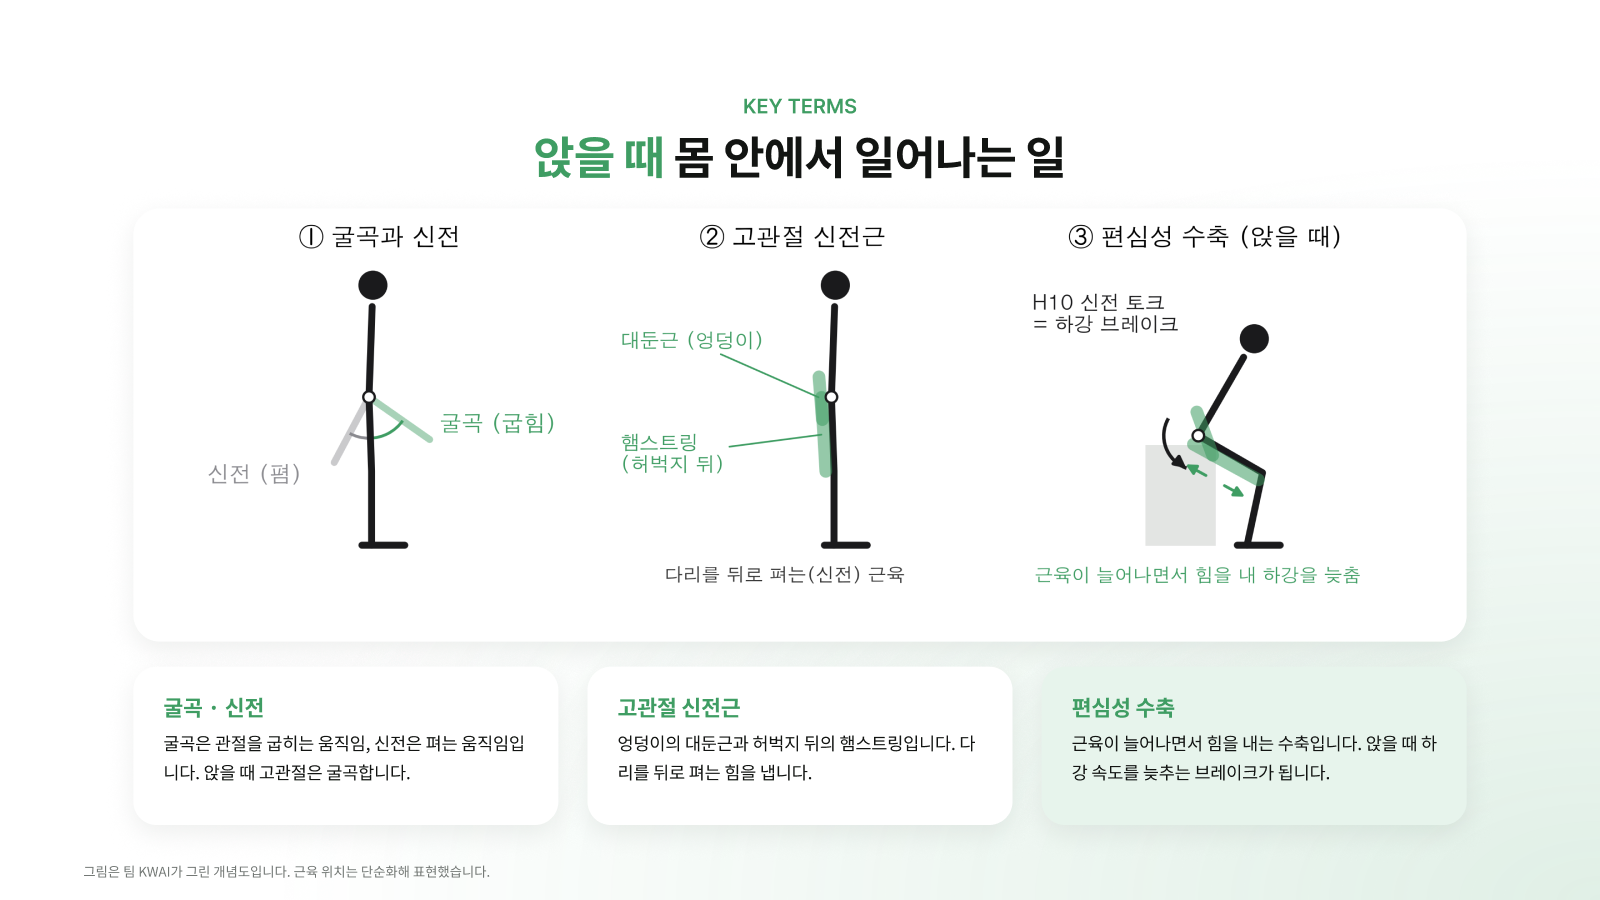
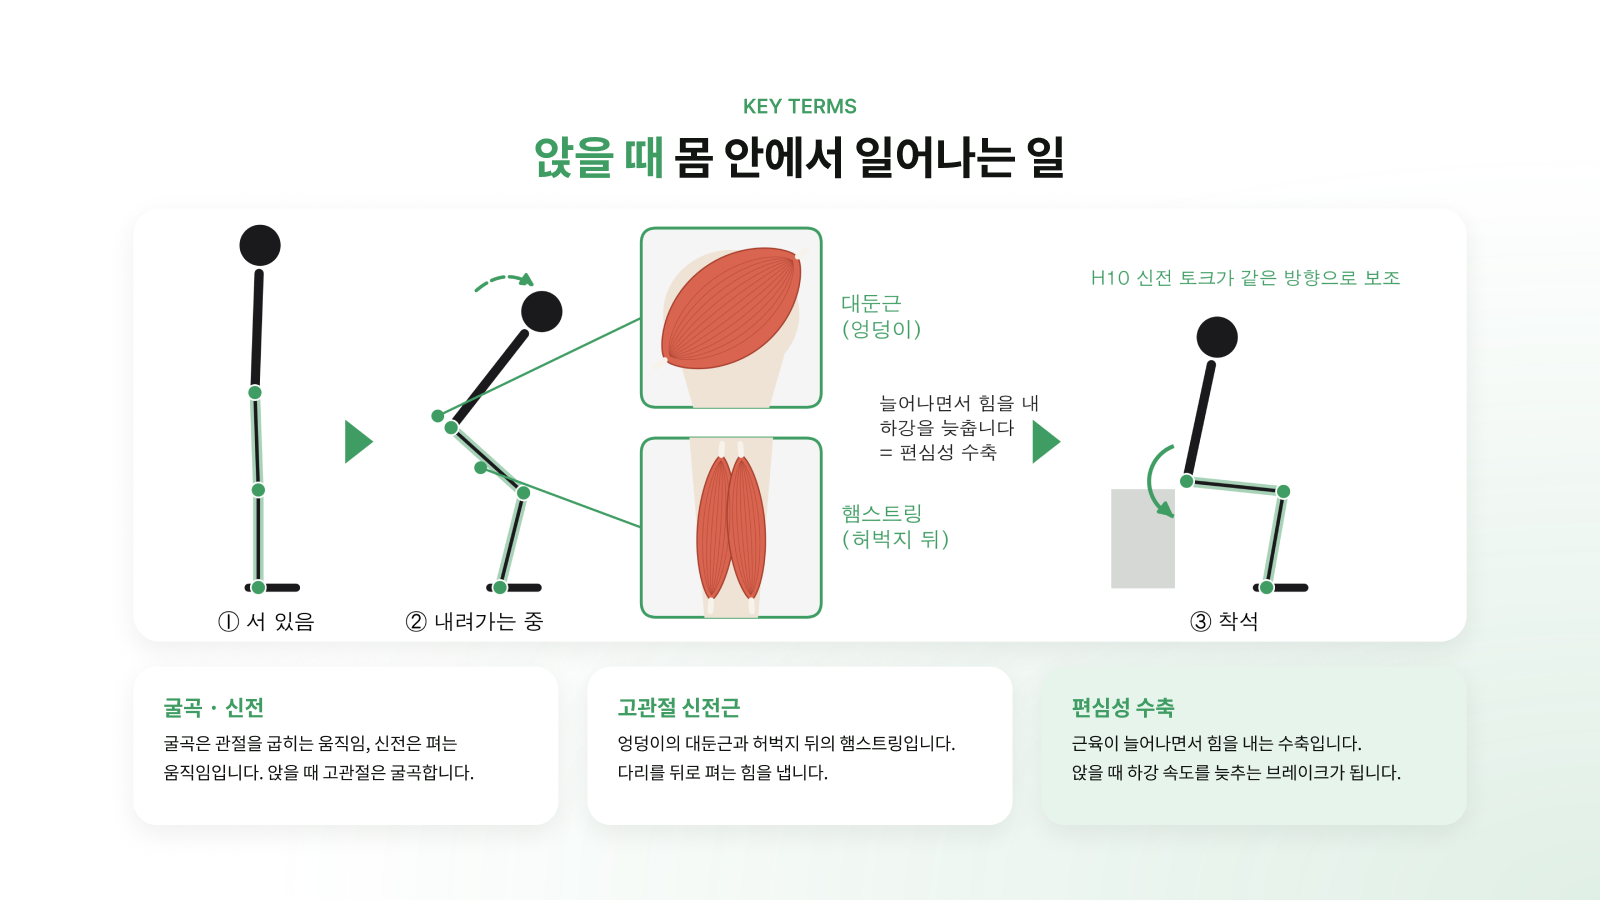
Muscle-location figure with stage callouts for key-terms slide

diff --git a/poster/make_figures.py b/poster/make_figures.py
@@ -181,6 +181,114 @@ def fig_terms(out: Path):
     plt.close(fig)
 
 
+# ---------------------------------------------------------------- 1-3. 근육 위치 (착석 단계 + 확대 상자)
+
+MUSCLE, MUSCLE_DARK, SKIN, TENDON = "#d9644f", "#a8412f", "#efe3d6", "#f7f2ea"
+
+
+def _spindle(ax, cx, cy, length, width, angle, fibers=7, z=3):
+    """근육 한 갈래(방추형)를 결(fiber) 선과 함께 그린다. angle: 수직 기준(deg)."""
+    t = np.linspace(-1, 1, 80)
+    half = width / 2 * (1 - t ** 2) ** 0.7
+    a = np.radians(angle)
+    axis, perp = np.array([np.sin(a), np.cos(a)]), np.array([np.cos(a), -np.sin(a)])
+    left = np.c_[t * length / 2, half] @ np.vstack([axis, perp])
+    right = np.c_[t * length / 2, -half] @ np.vstack([axis, perp])
+    poly = np.vstack([left, right[::-1]]) + [cx, cy]
+    ax.fill(poly[:, 0], poly[:, 1], color=MUSCLE, ec=MUSCLE_DARK, lw=1.2, zorder=z)
+    for k in np.linspace(-0.7, 0.7, fibers):
+        f = np.c_[t * length / 2 * 0.92, half * k] @ np.vstack([axis, perp]) + [cx, cy]
+        ax.plot(f[:, 0], f[:, 1], c=MUSCLE_DARK, lw=0.6, alpha=0.6, zorder=z + 1)
+    for sgn in (-1, 1):                               # 양 끝 힘줄
+        e = np.array([cx, cy]) + axis * sgn * length / 2
+        ax.plot([e[0], e[0] + axis[0] * sgn * 0.06], [e[1], e[1] + axis[1] * sgn * 0.06],
+                c=TENDON, lw=5, solid_capstyle="round", zorder=z)
+
+
+def _inset(fig, rect, kind, title):
+    """확대 상자: 둥근 테두리 + 피부 실루엣 + 근육."""
+    from matplotlib.patches import FancyBboxPatch
+    ax = fig.add_axes(rect)
+    ax.set_xlim(0, 1)
+    ax.set_ylim(0, 1)
+    ax.axis("off")
+    ax.add_patch(FancyBboxPatch((0.02, 0.02), 0.96, 0.96, boxstyle="round,pad=0,rounding_size=0.08",
+                                fc="#f4f5f4", ec=WINE, lw=2.5, transform=ax.transAxes, zorder=0))
+    if kind == "glute":       # 뒤에서 본 엉덩이: 엉덩이 실루엣 위에 큰 대둔근
+        th = np.linspace(0, 2 * np.pi, 100)
+        ax.fill(0.5 + 0.36 * np.cos(th), 0.52 + 0.34 * np.sin(th), color=SKIN, zorder=1)
+        ax.fill([0.22, 0.78, 0.7, 0.3], [0.3, 0.3, 0.02, 0.02], color=SKIN, zorder=1)
+        _spindle(ax, 0.5, 0.55, 0.9, 0.52, 52, fibers=11)
+    else:                     # 뒤에서 본 허벅지: 햄스트링 두 갈래
+        ax.fill([0.28, 0.72, 0.64, 0.36], [0.98, 0.98, 0.02, 0.02], color=SKIN, zorder=1)
+        _spindle(ax, 0.42, 0.5, 0.78, 0.2, 4)
+        _spindle(ax, 0.58, 0.5, 0.78, 0.2, -4)
+    ax.text(1.08, 0.5, title, ha="left", va="center", fontsize=18, fontweight="bold", color=WINE,
+            transform=ax.transAxes, linespacing=1.4)
+    return ax
+
+
+def fig_muscles(out: Path):
+    from matplotlib.patches import Arc, FancyArrowPatch
+    W, H = 15.0, 5.6
+    fig = plt.figure(figsize=(W, H))
+    ax = fig.add_axes([0, 0, 1, 1])
+    ax.set_xlim(0, W)
+    ax.set_ylim(0, H)
+    ax.axis("off")
+    S = 2.6                                            # 인형 크기
+
+    def person(x0, angles, chair=False):
+        ankle, knee, hip, shoulder, head, _ = (p * S + [x0, 0.85] for p in _pose(*angles))
+        if chair:
+            ax.add_patch(plt.Rectangle((hip[0] - 0.9, 0.85), 0.75, hip[1] - 0.95, color="#d5d8d5", zorder=0))
+        ax.plot([ankle[0] - 0.12, ankle[0] + 0.45], [0.85, 0.85], c="#1a1a1c", lw=7, solid_capstyle="round")
+        ax.plot(*np.array([shoulder, hip]).T, c="#1a1a1c", lw=8, solid_capstyle="round", zorder=3)
+        ax.plot(*np.array([hip, knee, ankle]).T, c=WINE, lw=9, alpha=0.45, solid_capstyle="round", zorder=3)
+        ax.plot(*np.array([hip, knee, ankle]).T, c="#1a1a1c", lw=3, solid_capstyle="round", zorder=4)
+        ax.add_patch(plt.Circle(head, 0.24, color="#1a1a1c", zorder=3))
+        for j in (hip, knee, ankle):
+            ax.add_patch(plt.Circle(j, 0.09, color=WINE, ec="white", lw=1.5, zorder=5))
+        return ankle, knee, hip, shoulder
+
+    def tri(x, y):
+        ax.add_patch(plt.Polygon([[x, y - 0.25], [x, y + 0.25], [x + 0.32, y]], color=WINE, zorder=6))
+
+    # ① 서 있음
+    person(1.0, (0, 2, 2))
+    ax.text(1.1, 0.35, "① 서 있음", ha="center", fontsize=18, fontweight="bold")
+    tri(2.05, 2.6)
+    # ② 내려가는 중 + 확대 상자 2개
+    ankle, knee, hip, shoulder = person(3.9, (14, 48, 38))
+    ax.text(3.6, 0.35, "② 내려가는 중", ha="center", fontsize=18, fontweight="bold")
+    ax.add_patch(FancyArrowPatch(shoulder + [-0.6, 0.5], shoulder + [0.15, 0.55], connectionstyle="arc3,rad=-0.4",
+                                 arrowstyle="-|>", mutation_scale=22, lw=3, ls="--", color=WINE))
+    back = _thigh_back(knee, hip)
+    glute_pt = hip + np.array([-0.16, 0.14])
+    ham_pt = (hip + knee) / 2 + back * 0.12
+    g_rect, h_rect = [0.37, 0.53, 0.15, 0.40], [0.37, 0.08, 0.15, 0.40]
+    _inset(fig, g_rect, "glute", "대둔근\n(엉덩이)")
+    _inset(fig, h_rect, "ham", "햄스트링\n(허벅지 뒤)")
+    for pt, r in ((glute_pt, g_rect), (ham_pt, h_rect)):
+        tgt = (r[0] * W + 0.05, (r[1] + r[3] / 2) * H)
+        ax.plot([pt[0], tgt[0]], [pt[1], tgt[1]], c=WINE, lw=2, zorder=6)
+        ax.add_patch(plt.Circle(pt, 0.07, color=WINE, zorder=7))
+    ax.text(8.45, 2.75, "늘어나면서 힘을 내\n하강을 늦춥니다\n= 편심성 수축", fontsize=16, color="#1a1a1c",
+            ha="left", va="center", linespacing=1.5)
+    tri(10.3, 2.6)
+    # ③ 착석 + H10 신전 토크
+    ankle, knee, hip, shoulder = person(13.1, (10, 84, 12), chair=True)
+    ax.text(12.6, 0.35, "③ 착석", ha="center", fontsize=18, fontweight="bold")
+    ax.add_patch(Arc(hip, 0.9, 0.9, theta1=110, theta2=250, color=WINE, lw=3.5, zorder=6))
+    tip = hip + 0.45 * np.array([np.cos(np.radians(250)), np.sin(np.radians(250))])
+    ax.add_patch(FancyArrowPatch(tip + [-0.08, 0.06], tip + [0.02, -0.02], arrowstyle="-|>", mutation_scale=24,
+                                 lw=3, color=WINE, zorder=6))
+    ax.text(11.0, 4.55, "H10 신전 토크가 같은 방향으로 보조", fontsize=16, color=WINE, fontweight="bold",
+            ha="left", va="center")
+    fig.savefig(out / "fig_muscles.png", dpi=200, facecolor="white")
+    plt.close(fig)
+
+
 # ---------------------------------------------------------------- 2. 개인 기준값
 
 def fig_profile(p: dict, prof: Profile, out: Path, cfg: Config = Config(), highlight: int | None = None):
@@ -307,6 +415,7 @@ def main():
     out.mkdir(parents=True, exist_ok=True)
     fig_posture(out)
     fig_terms(out)
+    fig_muscles(out)
 
     real = load_participant(Path(args.real))
     prof = Profile.from_trials(real["calib"])

diff --git a/README.md b/README.md
@@ -38,6 +38,8 @@
 
 ### 용어
 
+![근육 위치](presentation/figs/fig_muscles.png)
+
 ![용어](presentation/figs/fig_terms.png)
 
 | 용어 | 뜻 |
